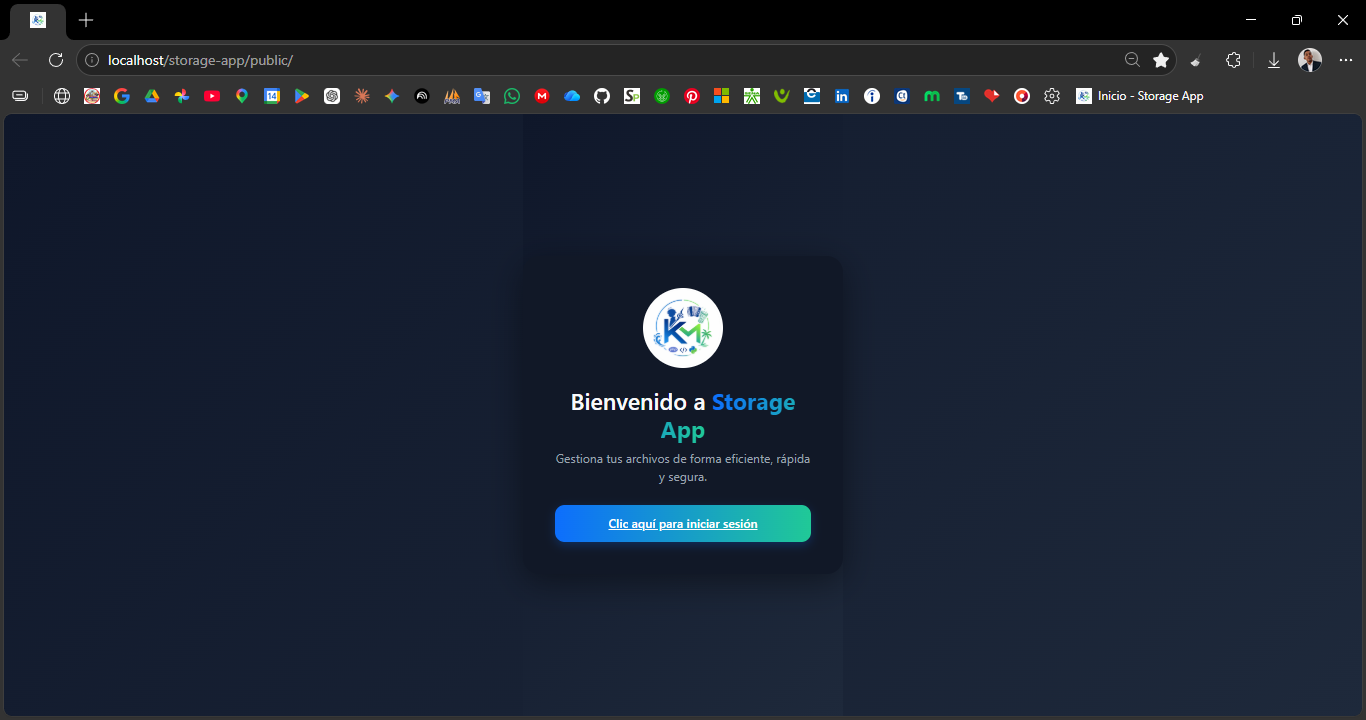
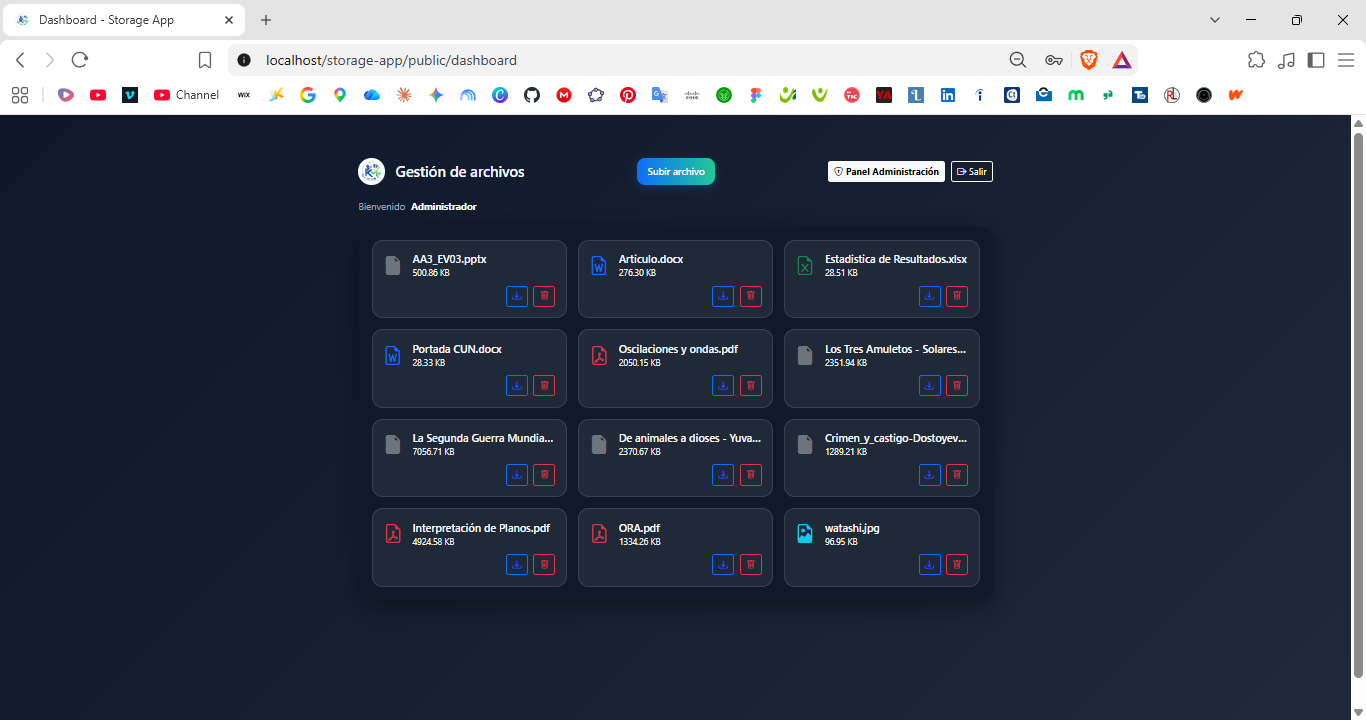
docs: update screenshots and README

diff --git a/README.md b/README.md
@@ -10,10 +10,15 @@
 ---
 
 ## 🎬 Demo
+📹 *[Ver demo aquí](https://youtu.be/019ITk9PQdQ)*
+---
 
-<!-- Reemplaza esta línea con tu enlace de YouTube, Drive o un GIF animado -->
-> 📹 *Video demostrativo — [Ver demo aquí](https://youtu.be/vh4NMOIztbA)*
-
+## 📸 Capturas de Pantalla
+| Vista Principal | Panel de Control |
+| :---: | :---: |
+| ![Vista 1](docs/screenshots/Responsive_mode.gif) | ![Vista 2](./docs/screenshots/Upload_file.gif) |
+| ![Vista 3](./docs/screenshots/panel.gif) | ![Vista 4](./docs/screenshots/Home.png) |
+| ![Vista 5](./docs/screenshots/register.png) | ![Vista 6](./docs/screenshots/login.png) |
 ---
 
 ## ¿Qué hace esta app?
